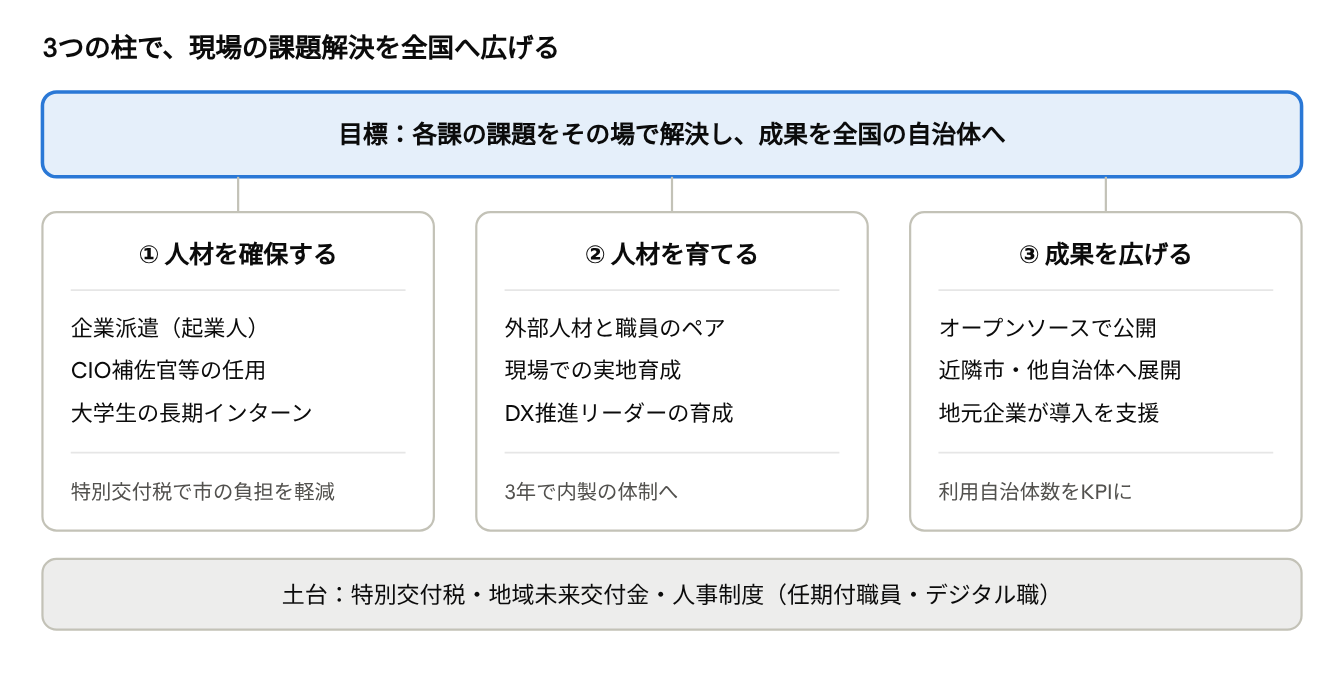
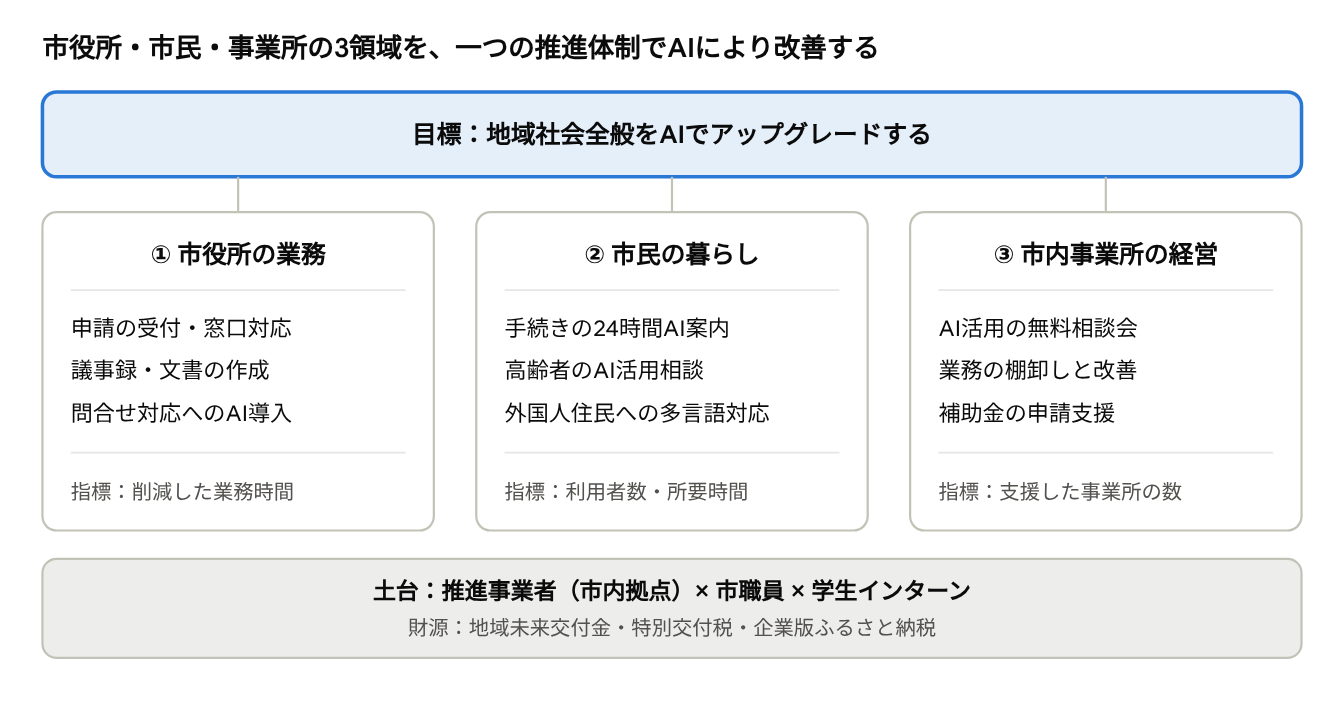
企画案を地域AX推進事業に改訂: 対象を市民・市内事業所へ拡大、推進事業者への委託スキームと財源構成を反映し図を更新
Claude-Session: https://claude.ai/code/session_01LNbA5S8t3PmUSsm3fXshu9

diff --git a/fde-kikaku/README.md b/fde-kikaku/README.md
@@ -1,196 +1,239 @@
-# 市役所FDE（フォワード・デプロイド・エンジニア）推進体制 企画案
+# 地域AX推進事業（仮称）企画案
 
-2026年11月14日時点 · 庁内協議用たたき台
-
-> 編集・コメントはオンライン版（Claude Docs）でも可能です。本ファイルはその書き出し版です。
+2026年11月19日時点 · 庁内協議用たたき台
 
 ## 1. 企画の概要
 
-令和9年度に、DX推進課内へ「FDE班」を設置する。外部の専門人材・市職員・大学生インターンがチームを組み、各課の現場で業務課題をその場で解決する。作ったシステムはオープンソースとして公開し、他自治体にも広げる。人件費は国の特別交付税措置を最大限活用し、市の実質負担を抑える。
+市が事業主体となり、公募で選んだ「地域AX推進事業者」が市役所内または市内に拠点を置く。事業者は市職員と一緒に、市役所の業務、市民の暮らし、市内事業所の経営をAIで改善する。財源は地域未来交付金を中心に、特別交付税と企業版ふるさと納税を組み合わせる。作った仕組みはオープンソースで公開し、他の地域にも広げる。
 
-**FDE（フォワード・デプロイド・エンジニア）とは**：各課の現場に入り込み、業務課題をデータ・AI・ノーコード・システム改修で解決し、定着するまで伴走する技術職。外部ベンダーへの発注ではなく、職員と一緒に「その場で作って直す」ことが特徴。
+![企画の全体像 · 3つの対象領域と土台](images/01-zentaizou.png)
+
+市役所で確かめた仕組みを市民と事業所に広げる。3つの領域を同じ推進体制と財源が支える。
+
+**AX（AIトランスフォーメーション）とは**：AIを使って、仕事や暮らしのやり方そのものを変えること。現場に入ってその場で仕組みを作る技術者を、本企画ではFDE（フォワード・デプロイド・エンジニア）と呼ぶ。
+
+**前案からの変更点**
+
+| 項目 | 前案 | 本案 |
+| --- | --- | --- |
+| 対象 | 市役所の中の業務 | 地域社会全般（市役所・市民生活・市内事業所） |
+| 実施体制 | 市役所内のFDE班 | 公募で選んだ地域AX推進事業者が市内に拠点を置き、市職員と協働 |
+| 学生 | 市が会計年度任用職員として雇用 | 事業者が雇用または籍を置き、市の事業に参加 |
+| 主な財源 | 特別交付税（人件費） | 地域未来交付金（委託費）＋特別交付税（市側の人材）＋企業版ふるさと納税 |
+| 成果指標 | 業務時間の削減など | 上記に加え、支援した事業所の数、市民サービスの利用者数、市内での雇用・定着 |
 
 **背景**
 
-- 人口5万人以下の小規模団体のうち211団体が、DX担当1人以下の「1人情シス」状態にある（総務省）。外部委託だけでは現場の細かな課題に手が回らない。
-- 国は外部デジタル人材の任用、企業人材の派遣、職員育成に特別交付税措置を講じており、人材確保の財源を組みやすい。
-- デジタル庁は2026年4月に職員向け生成AI環境「源内」の一部をオープンソースで公開した。自治体による重複開発の抑制は国の方向性と一致する。
+- 市役所だけでなく、市内の中小事業所も人手とデジタル人材が不足している。市と事業所が別々に外部人材を探すより、地域で共同して抱える方が効率がよい。
+- 地域未来交付金は地域の課題解決と地域経済への効果を重視する。対象を市民と事業所まで広げることで、交付金の趣旨に合う事業になる。
+- 総務省は地域の課題整理やAI導入計画の策定を伴走支援する「地域AX」の取組を進めている。デジタル庁は職員向け生成AI環境「源内」の一部をオープンソースで公開しており（2026年4月）、国の方向性と一致する。
 
-**3つの柱**：①人材を確保する（企業派遣・外部人材・学生）、②人材を育てる（ペアでの実地育成）、③成果を広げる（オープンソース公開と横展開）。
+## 2. 事業スキーム
 
-![企画の全体像 · 3つの柱と土台](images/01-zentaizou.png)
+市が地域再生計画をつくって国の交付金を受け、公募型プロポーザルで選んだ推進事業者に委託する。市が特定の事業者に直接お金を出す形にはしない。
 
-3つの柱は国の財源と人事制度を土台にし、「確保した人材を育て、その成果を外へ広げる」順につながる。
+![事業スキーム図 · 国・市・推進事業者・3領域](images/02-scheme.png)
 
-## 2. 組織体制
+お金は国から市、市から委託で推進事業者へ流れる。推進事業者と市職員が一緒に3つの領域の現場に入り、協議会が支援先の推薦と成果の評価を担う。
 
-FDE班は「小さな中核チーム＋各課の兼務リーダー」で構成し、外部人材と市職員をペアにして各課へ派遣する。初年度は専任5〜6名、学生2〜4名を想定する。
+| 主体 | 役割 |
+| --- | --- |
+| 国（内閣府・総務省） | 地域未来交付金の交付、特別交付税措置、地域AXの伴走支援 |
+| 市 | 事業主体。地域再生計画とKPIの策定、推進事業者の公募・選定、市役所側の推進担当（DX推進課と各課のリーダー） |
+| 地域AX推進事業者 | 市の委託を受け、市内に拠点を置いてFDE人材と学生インターンを雇用。市職員と一緒に3つの領域を支援 |
+| 地域AX推進協議会 | 市、推進事業者、商工会議所・商工会、地域金融機関、大学で構成。支援先の推薦、成果の評価 |
+| 大学・高専 | 学生の送り出し、共同研究・課題解決型の授業 |
+| 協力企業 | 企業版ふるさと納税（人材派遣型）や地域活性化起業人で専門人材を派遣 |
 
-![組織体制図 · FDE班、各課、支援層](images/02-soshiki.png)
+**推進事業者の選び方**
 
-FDE班が各課に入り、各課のDX推進リーダーが課題を持ち込む。双方向のやりとりを支援層が外から支える。（図中の課名は例）
+- 公募型プロポーザルで選ぶ。最初から特定の事業者を決めてしまうと、交付金の審査や議会で理由を問われる。
+- 評価基準に、市内に拠点を置くこと、学生を雇用・育成すること、成果をオープンソースで公開すること、交付金期間後に自走する計画があることを入れる。
+- 委託は単年度契約を基本とし、成果評価をもとに次年度も継続するかを判断する。
 
-| 層 | 構成（初年度の想定） | 役割 |
+## 3. 対象領域と支援メニュー
+
+市役所の業務で確かめた仕組みを、市民向けサービスと事業所支援に展開する。初年度は各領域で小さな先行案件を選び、3か月以内に効果を確かめる。
+
+| 領域 | 取組例 | 進め方 | 主な指標 |
+| --- | --- | --- | --- |
+| ① 市役所の業務 | 申請の受付業務、窓口の待ち時間対策、議事録・文書の作成、問合せ対応へのAI導入 | 各課のDX推進リーダーが課題を持ち込み、FDEと職員が一緒に作る | 削減した業務時間、解決した案件数 |
+| ② 市民の暮らし | 手続きの24時間AI案内、高齢者のスマートフォン・AI活用相談、子育て・介護の情報案内、外国人住民への多言語対応 | 市役所で使った仕組みを市民向けに公開。公民館などで学生が使い方を案内する | 利用者数、手続きの所要時間、利用者の満足度 |
+| ③ 市内事業所の経営 | AI活用の無料相談会、業務の棚卸しと改善提案、生成AIの社内導入（文書・見積もり・顧客対応）、国の補助金の申請支援 | 協議会を通じて公募で支援先を募り、共通メニューで伴走する | 支援した事業所の数、導入後の業務時間・売上の変化 |
+
+**事業所支援のルール**（特定の会社への利益にしないため）
+
+- 支援先は公募で募り、選定基準を公開する。
+- 無料は相談・業務診断・基本的な導入までとし、個別の開発は事業所の費用負担か国の補助金で行う。
+- 支援の成果事例と作った仕組みは公開し、他の事業所も使えるようにする。
+- 市役所の庁内データや個人情報は、事業所支援には使わない。
+
+## 4. 実施体制と人材
+
+推進事業者のFDE人材と市職員がペアで現場に入り、学生インターンは事業者に雇用されて実務を担う。初年度は事業者側に専任5〜6名と学生4〜6名、市側に推進担当2〜3名を想定する。
+
+| 所属 | 役割 | 人数（初年度の想定） |
 | --- | --- | --- |
-| FDE班（DX推進課内） | 外部専門人材2〜3名＋市職員（専任）2〜3名 | 案件の選定、各課への派遣、技術的な判断、育成の運営 |
-| FDE見習い | 大学生の長期インターン2〜4名 | データ整理、ノーコード開発、AIの試行 |
-| 各課 | DX推進リーダー（兼務、各課1名） | 課題を持ち込む、FDEと一緒に作る、完成後に運用する |
-| 支援層 | 県の人材プール、地域情報化アドバイザー、協定企業、連携大学 | 専門的な助言、高度な案件の補完 |
+| 推進事業者 | 統括マネージャー（市との窓口、案件の優先順位づけ） | 1名 |
+| 推進事業者 | FDE人材（現場での開発・導入。企業からの派遣者を含む） | 3〜4名 |
+| 推進事業者 | 事業所支援の担当（相談窓口、商工団体・金融機関との連携） | 1名 |
+| 推進事業者 | 学生インターン（データ整理、ノーコード開発、市民向けの使い方案内） | 4〜6名 |
+| 市 | DX推進課の担当（CIO補佐官等の外部人材1名を含む） | 2〜3名 |
+| 市 | 各課のDX推進リーダー（兼務） | 各課1名 |
 
-**運営のルール**
+**拠点の置き方**
 
-- 外部人材と市職員は必ずペアで動き、仕事をこなしながら技術を移す。
-- 案件は「3か月以内に効果が出るもの」から始める。例：申請の受付業務、窓口の待ち時間対策、議事録作成、問合せ対応へのAI導入。
-- 案件の受付基準を決め、何でも頼まれる「便利屋」にしない。基準例：削減できる時間、市民への影響、他課へ横展開できるか。
-- FDE班内にオープンソース公開の担当（OSPO、兼務1名）を置く。
+| 案 | 良い点 | 注意点 |
+| --- | --- | --- |
+| 市役所内に置く | 職員と日常的に一緒に動ける。市民にも分かりやすい | 行政財産の目的外使用許可（または貸付）が必要。事業者のネットワークを庁内ネットワークと分ける |
+| 市内の別の場所に置く（空き店舗・駅前など） | 事業所や学生が立ち寄りやすい。まちなかの賑わいにもつながる | 市役所との行き来が必要。賃料の負担を決める |
 
-## 3. 人材確保
+**学生インターンの位置づけ**
 
-人材は「企業から来た人が教える、学生が手を動かす、市職員が現場をつなぐ」の3系統で確保する。企業派遣は全国で実績があり、令和6年度は871人が439団体で活用されている。
+| 形 | 内容 | 評価 |
+| --- | --- | --- |
+| 事業者が雇用（推奨） | 有償の長期インターン・アルバイト。人件費は委託費に含められる | 最もシンプル。卒業後に事業者へそのまま就職もできる |
+| 大学との連携プロジェクト | 授業や研究として参加。特別交付税の対象になり得る | 「市の事業」が前提。事業者に籍を置く学生分に使えるかは総務省へ照会が必要 |
+| 卒業後の受け皿 | 地域おこし協力隊（市が団体に委託し、団体が雇用する「委託型」の運用例あり） | 推進事業者を委託先にできるか要確認 |
 
-![人材パイプライン · 高校から市のFDEまで](images/03-jinzai-pipeline.png)
+学生には必ず指導役をつけ、個人情報に触れない業務から始める。案件は3か月程度で区切り、学期や就職活動で抜けても引き継げるようにする。
 
-学生は在学中に見習いとして実務を経験し、卒業後は3つの進路のいずれかで市に関わり続ける。奨学金の返還支援を組み合わせれば、地元に戻るきっかけになる。
+![人材パイプライン · 高校から地域のAX人材まで](images/03-jinzai-pipeline.png)
 
-| 役割 | 人材の出どころ | 使う制度 | 主な財源 |
+学生は在学中に推進事業者で実務を経験し、卒業後は推進事業者、市、地元事業所のいずれかで市内に残る。奨学金の返還支援を組み合わせれば、地元に戻るきっかけになる。
+
+## 5. 財源の組み合わせと費用試算
+
+推進事業者への委託費は地域未来交付金（地域未来推進型、補助率1/2）、市側の人材は特別交付税、企業からの派遣は企業版ふるさと納税でまかなう。同じ経費に2つの財源を重ねて使わない。
+
+| 財源 | 所管 | 内容（直近の公表値） | 本事業での用途 |
 | --- | --- | --- | --- |
-| 技術リーダー・指導役 | IT企業・SIer・地元企業からの派遣 | 地域活性化起業人（企業派遣型・副業型・シニア） | 特別交付税 |
-| 技術リーダー | 民間の専門人材 | CIO補佐官等として任用（任期付・非常勤） | 特別交付税 |
-| 各課と外部をつなぐPM | 民間の実務経験者 | 地域プロジェクトマネージャー | 特別交付税 |
-| 内部FDE | 市職員（専任） | DX推進リーダー育成 | 一般財源＋育成経費は特別交付税 |
-| FDE見習い | 大学生・高専生 | 有償の長期インターン（会計年度任用）、大学連携プロジェクト | 一般財源、大学連携の特別交付税 |
-| 将来の担い手 | 新卒・地域おこし協力隊・Uターン | デジタル職の採用区分、協力隊、奨学金返還支援 | 協力隊は特別交付税 |
+| [地域未来交付金（地域未来推進型）](https://www.chisou.go.jp/tiiki/kankyo/pdf/02_kouhukingaiyou26.pdf) | 内閣府 | ソフト事業、補助率1/2、原則3か年度以内（最長5か年度）。協議会の設立、計画立案、外部人材の招へい、委託事業が対象。委託費に含まれる人件費相当はそれだけでは対象外にならない | 推進事業者への委託費、協議会の運営 |
+| [地域未来交付金（デジタル実装型）](https://web.pref.hyogo.lg.jp/kk26/koufukin_digital.html) | 内閣府 | TYPE A 1/2、TYPE V 2/3、TYPE S 3/4 | 2年目以降、市民向けAIサービスの本格導入 |
+| [CIO補佐官等の外部人材任用](https://www.soumu.go.jp/main_content/001092501.pdf) | 総務省 | 特別交付税、措置率0.7（令和5〜7年度） | 市側の司令塔役 |
+| [企業版ふるさと納税（人材派遣型）](https://www.chisou.go.jp/tiiki/tiikisaisei/portal/pdf/jinzaihakengata.pdf) | 内閣府 | 企業が寄附と人材派遣をセットで行う。企業は寄附額の最大約9割の税が軽くなる。令和9年度まで延長 | 大企業からの専門人材の受入れ |
+| [地域活性化起業人](https://www.soumu.go.jp/main_content/001069411.pdf) | 総務省 | 特別交付税。受入れ経費の上限590万円/人（令和7年度拡充案） | 企業からの技術者派遣（受入れ要件は要照会） |
+| 事業所自身が使う国の補助金 | 経済産業省など | デジタル化・AI導入補助金など | 個別事業所のツール導入（推進事業者が申請を支援） |
+| [地域AXの伴走支援](https://www.soumu.go.jp/main_content/001092486.pdf) | 総務省 | 地域の課題整理やAI導入計画の策定を国が伴走支援（令和6〜9年度） | 構想づくりの段階 |
 
-**企業への訴求点**：社員が現場の課題を一から解決する経験を積める。自治体向け事業の知見が得られる。ESG・地域貢献の実績になる。シニア社員を活用できる。
+**費用の試算（初年度・年額・概算）**
 
-**学生受入れの条件**：指導役を必ずつける。個人情報に触れない業務から始める。有償とする。案件を3か月程度で区切り、引き継ぎ資料を残す。
-
-**人事制度で用意するもの**：特定任期付職員の採用枠、副業・兼業人材の受入れ規程、デジタル職の採用区分と専門職のキャリアパス。育てた職員が異動で抜けない仕組みが最重要。
-
-## 4. 財源
-
-人の費用は特別交付税措置、成果物の本格導入は地域未来交付金（デジタル実装型）と、財源を分けて組む。令和8年度の上限額・措置率は確定版を未確認のため、下表は直近の公表値である。
-
-| 制度 | 所管 | 内容（直近の公表値） | 本企画での用途 |
+| 項目 | 内訳 | 金額（万円） | 財源 |
 | --- | --- | --- | --- |
-| [CIO補佐官等の外部人材任用](https://www.soumu.go.jp/main_content/001092501.pdf) | 総務省 | 特別交付税。措置率0.7（令和5〜7年度）、1団体3名分まで | FDE班の技術リーダー |
-| [地域活性化起業人](https://www.soumu.go.jp/main_content/001069411.pdf) | 総務省 | 特別交付税。受入れ経費の上限590万円/人（令和7年度拡充案） | 企業からの技術者派遣 |
-| [地域プロジェクトマネージャー](https://www.soumu.go.jp/main_content/001092485.pdf) | 総務省 | 特別交付税。市町村2人、1人3年まで。上限は資料により650〜700万円/人 | 各課との調整役 |
-| [DX推進リーダー育成](https://www.soumu.go.jp/main_content/001097739.pdf) | 総務省 | 育成経費が特別交付税の対象（令和8年9月資料） | 内部職員の研修・資格取得 |
-| [大学と地域が連携した課題解決プロジェクト](https://www.soumu.go.jp/main_content/001053714.pdf) | 総務省 | 特別交付税（2024年度新設） | 大学・高専との共同プロジェクト |
-| [地域未来交付金（デジタル実装型）](https://web.pref.hyogo.lg.jp/kk26/koufukin_digital.html) | 内閣府 | 旧「新しい地方経済・生活環境創生交付金」。TYPE1・TYPE V・TYPE S | 成果物の本格導入（人件費は原則対象外） |
-| 地域情報化アドバイザー | 総務省 | 専門家の派遣 | 立ち上げ期の助言 |
+| 委託費：統括マネージャー | 1名×900 | 900 | 地域未来交付金 |
+| 委託費：FDE人材 | 3名×800 | 2,400 | 地域未来交付金 |
+| 委託費：事業所支援の担当 | 1名×600 | 600 | 地域未来交付金 |
+| 委託費：学生インターン | 5名×約86（時給1,200円×週16時間×45週） | 約430 | 地域未来交付金 |
+| 委託費：拠点運営・クラウド・AI利用料 | 一式 | 約600 | 地域未来交付金 |
+| 委託費：事業所向け相談会・成果公開 | 一式 | 約300 | 地域未来交付金 |
+| 市：CIO補佐官等 | 1名×700 | 700 | 特別交付税（措置率0.7） |
+| 企業からの派遣人材 | 1名 | 寄附でまかなう | 企業版ふるさと納税 |
 
-**費用の試算（人件費のみ・概算）**
+委託費の合計は約5,230万円。交付金（1/2）で約2,615万円、市が約2,615万円を負担する。CIO補佐官等の市の実質負担は約210万円。市の実質負担は合わせて約2,825万円となる。
 
-| 項目 | 人数 | 単価（万円/年） | 総額（万円） | 措置の見込み | 市の実質負担（万円） |
-| --- | --- | --- | --- | --- | --- |
-| 外部専門人材（CIO補佐官等） | 3 | 700 | 2,100 | 措置率0.7 | 約630 |
-| 学生インターン（時給1,200円×週16時間×45週） | 4 | 約86 | 約345 | なし（大学連携部分は要確認） | 約345 |
+単価と人数は仮置きである。交付上限（国費）は類型と団体区分で異なり、市区町村4,000万円とする資料もあるため、公募要領で確認する。市負担分（1/2）への地方財政措置は「検討中」と注記されており、県の担当課に確認する。
 
-上表の単価・時給は仮置きである。特別交付税は後から算定され、確約ではない。1人あたりの対象上限等もあるため、財政課と算定見込みを事前に調整する。
+## 6. オープンソース公開と横展開
 
-## 5. オープンソース公開と横展開
-
-FDE班が作ったシステムは、開発の最初から公開を前提に作り、オープンソース（MITまたはApache-2.0）として公開する。総務省は、自治体が開発したソフトウェアをオープンソース化して他自治体に使わせることに、地方自治法上の制約はないと整理している（[総務省資料](https://www.soumu.go.jp/main_content/001054971.pdf)）。
+委託で作った仕組みは、委託契約でオープンソース（MITまたはApache-2.0）での公開を義務づける。総務省は、自治体が開発したソフトウェアをオープンソース化して他の自治体に使わせることに、地方自治法上の制約はないと整理している（[総務省資料](https://www.soumu.go.jp/main_content/001054971.pdf)）。公開は、事業所支援が特定の会社への利益にならないことの担保にもなる。
 
 ![オープンソース公開の循環モデル · 6ステップ](images/04-oss-junkan.png)
 
-公開した成果が他自治体で使われると、その実績が次の人材確保と交付金申請の根拠になり、さらに多くの課題を解決できるようになる。
-
-**立場ごとの評価の見通し**
-
-| 立場 | 見通し | 理由 |
-| --- | --- | --- |
-| 国の政策 | 方向性が合う | デジタル庁がオープンソース化の検討会を設置（2025年11月）、「源内」を公開（2026年4月） |
-| 交付金・表彰の審査 | 加点が期待できる | 横展開の具体的な根拠になる（各年度の要綱で要確認） |
-| 他自治体 | 関心は高い | 「誰がサポートするのか」が導入の障害 |
-| エンジニア・学生 | 採用に大きく効く | 公開コードが求人票になり、学生にとっては実績になる |
-| 地元企業・ベンダー | 受け止めは分かれる | 既存業務が減る懸念と、他自治体への導入支援という商機の両面 |
-| 議会・住民 | 説明すれば理解を得やすい | 「税金で作ったものを全国の役に立てる」。保守費は問われる |
+公開した仕組みを他の地域や事業所へ導入する業務は、推進事業者の自走後の収入にもなる。
 
 **著作権の整理（公開の前提）**
 
 | 作った人 | 著作権の扱い | 必要な対応 |
 | --- | --- | --- |
-| 市職員（任期付・会計年度任用を含む） | 職務著作として原則市に帰属 | 内規で明確化 |
-| 企業からの派遣者 | 協定の内容による | 派遣協定に市への帰属と公開への同意を明記 |
-| 学生インターン | 雇用なら職務著作、PBLなら学生・大学に帰属しうる | 雇用契約または大学との協定で同意を得る |
-| 委託先ベンダー | 契約の内容による | 仕様書に公開と著作権の譲渡を明記 |
+| 市職員 | 職務著作として原則市に帰属 | 内規で明確化 |
+| 推進事業者（そこに雇用された学生を含む） | 委託契約の内容による | 仕様書に市への帰属またはオープンソース公開を明記。事業者は学生との雇用契約で権利を整理する |
+| 企業からの派遣者 | 派遣協定の内容による | 派遣協定に市への帰属と公開への同意を明記 |
+| 大学連携プロジェクトの学生 | 学生・大学に帰属しうる | 大学との協定で公開への同意を得る |
 
-**公開の運用ルール**：保守の方針を明示する。認証情報や庁内ネットワークの構成を含めない。公開前にシークレットのスキャンを行う。導入手順書とデモを用意する。導入・保守は民間企業に発注できると明示する。
+**公開の運用ルール**：保守の方針を明示する。認証情報、庁内ネットワークの構成、事業所の営業情報を含めない。公開前にシークレットのスキャンを行う。導入手順書とデモを用意する。他の地域での導入・保守は民間企業が受注できると明示し、推進事業者の自走後の収入源にもする。
 
-## 6. ロードマップとKPI
+## 7. ロードマップ・自走化とKPI
 
-令和8年度中に準備と令和9年度当初予算の要求を行い、令和11年度末までに外部への依存を減らした内製体制へ移行する。
+令和8年度中に計画と交付金申請を済ませ、令和9〜11年度の3年間を交付金で実施する。令和12年度からは交付金に頼らず、推進事業者が自走する。交付金の申請では、この自走化の計画を必ず問われる。
 
-![3か年ロードマップ · 4フェーズと3つの判断点](images/05-roadmap.png)
+![ロードマップ · 4フェーズと3つの判断点](images/05-roadmap.png)
 
-各フェーズの境目（◇）で成果を評価し、次の段階に進むかどうかを判断する。
+各フェーズの境目（◇）で成果を評価し、次の段階に進むかどうかを判断する。交付金の申請時期は公募要領で確認する。
+
+**自走後の収入源**
+
+| 収入源 | 内容 |
+| --- | --- |
+| 事業所からの支払い | 基本の相談は無料のまま、個別の開発・運用を有料化する |
+| 市からの業務委託 | 市役所の業務改善分を通常の委託として継続 |
+| 他の地域での導入支援 | 公開した仕組みを他の自治体・事業所に導入する業務を受注 |
+| 企業版ふるさと納税 | 市が寄附を受け、人材派遣と合わせて事業を続ける（制度の延長が前提） |
 
 **KPI（目標値は協議で設定）**
 
 | 分野 | 指標 |
 | --- | --- |
-| 業務改善 | 削減した業務時間（時間/年）、解決した案件数 |
-| 市民サービス | 手続き・窓口の所要時間の短縮 |
-| 人材 | 独り立ちした内部FDEの人数、インターン受入れ数、卒業後に市や地元に残った人数 |
-| 内製化 | 内部で開発した割合 |
-| 横展開 | 公開したリポジトリ数、利用自治体数、外部からの改善提案数 |
+| 市役所 | 削減した業務時間（時間/年）、解決した案件数 |
+| 市民 | AIサービスの利用者数、手続きの所要時間、相談会の参加者数 |
+| 事業所 | 支援した事業所の数、AIを導入した事業所の数、導入後の業務時間・売上の変化 |
+| 人材・雇用 | 事業者の市内雇用数、インターン受入れ数、卒業後に市内で就職した人数 |
+| 横展開・自走 | 公開した仕組みの数、利用した自治体数、事業者の自主収入の割合 |
 
-## 7. リスクと対策
+## 8. リスクと対策
 
-最大のリスクは「財源が確約されないこと」と「育てた人材や知識が異動・退任で失われること」である。
+最大のリスクは、交付金が終わった後に事業が止まることと、公費が特定の事業者・会社への利益と見られることである。
 
 | リスク | 対策 |
 | --- | --- |
-| 特別交付税は後から算定され、確約がない | 初年度は措置なしでも成り立つ規模で計画する。財政課と事前に算定見込みを調整する |
-| 制度の名称・上限が毎年変わる | 毎年の地方財政の通知を確認する担当を決める |
-| 外部人材が辞めると知識が残らない | 市職員とのペア制、作業記録の義務化、コードと手順の庁内保管 |
-| 育てた職員が異動で抜ける | デジタル職の採用区分と専門職のキャリアパスを人事課と設計する |
-| FDE班が何でも頼まれる「便利屋」になる | 案件の受付基準を定め、優先順位を公開する |
-| 派遣元企業との調達上の利益相反 | 派遣者を派遣元が関わる調達に関与させないと協定に明記 |
-| 情報セキュリティ・個人情報 | ネットワーク分離の方式の見直し、生成AI利用ガイドライン、学生は個人情報を扱わない業務から |
-| 公開しただけで保守されないと批判される | 保守方針の明示、近隣市との共同開発・共同保守 |
-| 既存ベンダーからの反発 | 導入・保守は民間に発注できると明示し、地元企業を導入パートナーにする |
+| 交付金の期間（原則3年）後に事業が止まる | 1年目から有料メニューを設計し、自主収入の割合をKPIにする |
+| 推進事業者の選定が不公平と見られる | 公募型プロポーザルで選び、評価基準と結果を公開する |
+| 事業所支援が特定の会社への利益になる | 支援先の公募、共通メニュー、無料範囲の限定、成果の公開 |
+| 寄附した企業と委託先の関係が問題になる | 企業版ふるさと納税は寄附企業への経済的な見返りを禁止している。寄附企業（関連会社を含む）を同じ事業の委託先にしない。判断に迷う場合は内閣府に照会 |
+| 同じ経費に財源を重ねて使う | 財源ごとに対象経費を分けて管理する |
+| 市負担分（1/2）の財源が確保できない | 財政課・県と地方財政措置の見込みを事前に確認し、初年度の規模を調整する |
+| 庁内の情報や個人情報の漏えい | 事業者のネットワークを庁内と分ける。守秘義務、生成AI利用ガイドライン、学生は個人情報を扱わない業務から |
+| 市の中にノウハウが残らない | 市職員とのペア制、作業記録とコードの公開、CIO補佐官等を市側に置く |
+| 既存ベンダーや地元IT企業からの反発 | 地元企業を協議会や導入パートナーに迎え、個別開発の受注機会を残す |
+| 制度の名称・要件が毎年変わる | 毎年の公募要領・地方財政の通知を確認する担当を決める |
 
-## 8. 庁内協議で決めたい論点と次のアクション
+## 9. 庁内協議で決めたい論点と次のアクション
 
-令和9年度当初予算に間に合わせるには、下の論点を早期に決める必要がある。
+令和9年度の交付金と当初予算に間に合わせるには、事業の対象範囲、推進事業者の選び方、市負担の規模を早期に決める必要がある。
 
 **論点**
 
-1. FDE班の置き場所：DX推進課内の班か、市長直轄のチームか
-2. 初年度の規模：外部人材・市職員・学生それぞれ何名か
-3. 外部人材の入れ方：企業派遣（起業人）、CIO補佐官等としての任用、副業人材のどれを軸にするか
-4. 人事制度：特定任期付の採用、デジタル職の採用区分、副業受入れ規程をどこまで整えるか
-5. 先行案件：最初に取り組む課の案件を5〜10件選ぶ
-6. オープンソース公開の方針：公開を原則とするか、案件ごとに判断するか
-7. 広域連携：近隣市との共同任用・共同開発を初年度から打診するか
+1. 対象の範囲：初年度から3領域すべてを対象にするか、市役所と事業所から始めるか
+2. 拠点：市役所内に置くか、市内の別の場所に置くか
+3. 推進事業者の選び方：公募型プロポーザルの評価基準と委託期間
+4. 市負担の規模：初年度の委託費をどの程度にするか（試算は約5,230万円、市の実質負担は約2,825万円）
+5. 協議会の構成：商工団体、地域金融機関、大学に声をかけるか
+6. 企業版ふるさと納税：人材派遣型で協力企業を募るか
+7. オープンソース公開：委託仕様書で公開を義務づけるか
 
 **次のアクション**
 
-- [ ] 地域活性化起業人（企業派遣型）の受入れ要件を照会する。岐阜県は制度上「名古屋圏（三大都市圏）」に含まれるため、市内の過疎地域等の有無で可否が変わりうる（総務省または県へ）
-- [ ] 財政課と特別交付税の対象経費と算定見込みを調整する
-- [ ] 人事課と任期付職員・会計年度任用職員の枠を調整する
-- [ ] 近隣の大学・高専（情報系・データサイエンス系）にインターンと連携を打診する
-- [ ] 派遣を依頼する候補企業をリストアップする
-- [ ] 各課から先行案件の候補を募る
-- [ ] 令和9年度当初予算の要求資料を作成する
+- [ ] 内閣府・県に、地域未来交付金の類型・交付上限・申請時期と、委託スキームが対象になるかを確認する
+- [ ] 財政課と市負担分の財源と地方財政措置の見込みを調整する
+- [ ] 庁舎の使用許可（市役所内に拠点を置く場合）を管財担当と確認する
+- [ ] 地域活性化起業人の受入れ要件を照会する。岐阜県は制度上「名古屋圏」に含まれるため、市内の過疎地域等の有無で可否が変わりうる
+- [ ] 商工会議所・商工会、地域金融機関、近隣の大学・高専に協議会への参加を打診する
+- [ ] 推進事業者の公募仕様書（市内拠点、学生雇用、オープンソース公開、自走計画）のたたき台を作る
+- [ ] 総務省の地域AX伴走支援の活用を検討する
+- [ ] 地域再生計画・実施計画と令和9年度当初予算の要求資料を作成する
 
 ## 出典
 
-- [総務省 AX/DX推進体制の充実・強化とデジタル人材の確保・育成（令和8年9月）](https://www.soumu.go.jp/main_content/001097739.pdf)
-- [総務省 外部人材任用・特別交付税措置](https://www.soumu.go.jp/main_content/001092501.pdf)
-- [総務省 地域活性化起業人 実績（令和6年度）](https://www.soumu.go.jp/main_content/001070541.pdf)
-- [総務省 地域活性化起業人 制度資料](https://www.soumu.go.jp/main_content/001069411.pdf)
-- [国交省 資料（起業人上限の拡充）](https://www.mlit.go.jp/2chiiki_pf/files/250115_document04.pdf)
-- [総務省 地域プロジェクトマネージャー](https://www.soumu.go.jp/main_content/001092485.pdf)
-- [総務省 大学連携・地域外人材関連資料](https://www.soumu.go.jp/main_content/001053714.pdf)
+- [内閣府 地域未来交付金について（令和8年10月）](https://www.chisou.go.jp/sousei/about/chiikimiraikoufukin/pdf/chiikimiraikoufukin_gaiyou.pdf)
+- [内閣府 地域未来交付金について（令和8年7月 説明会資料）](https://www.chisou.go.jp/sousei/meeting/tihousousei_setumeikai/pdf/r08-07-22-shiryou4.pdf)
+- [内閣府 地域未来交付金（地域未来推進型）の制度概要](https://www.chisou.go.jp/tiiki/kankyo/pdf/02_kouhukingaiyou26.pdf)
 - [兵庫県 地方未来交付金（デジタル実装型）](https://web.pref.hyogo.lg.jp/kk26/koufukin_digital.html)
-- [福島県 地域未来交付金](https://www.pref.fukushima.lg.jp/sec/11045a/chiikimirai.html)
+- [内閣府 企業版ふるさと納税（人材派遣型）](https://www.chisou.go.jp/tiiki/tiikisaisei/portal/pdf/jinzaihakengata.pdf)
+- [京都府 企業版ふるさと納税（適用期限の延長）](https://www.pref.kyoto.jp/chiikisousei/kigyouban.html)
+- [総務省 外部人材任用・特別交付税措置](https://www.soumu.go.jp/main_content/001092501.pdf)
+- [総務省 地域活性化起業人 制度資料](https://www.soumu.go.jp/main_content/001069411.pdf)
+- [総務省 地域AX伴走支援関連資料](https://www.soumu.go.jp/main_content/001092486.pdf)
 - [総務省 自治体ソフトウェアのオープンソース化に関する整理](https://www.soumu.go.jp/main_content/001054971.pdf)
-- [IPA 行政機関のOSS活用 調査報告 2025](https://www.ipa.go.jp/digital/kaihatsu/oss/report/govoss_report_2025/index.html)
+- [静岡市 中小企業DX伴走支援事業](https://www.city.shizuoka.lg.jp/s2746/s013170.html)
 - [デジタル庁 「源内」公開](https://www.digital.go.jp/news/907c8e5d-2f4f-4bd7-9400-37c9f4221d7d)
 
-本書の制度情報はWeb検索で確認した直近の公表値である。令和8、9年度の確定値は総務省・内閣府の最新通知で確認すること。
+本書の制度情報はWeb検索で確認した直近の公表値である。申請前に公募要領・交付要綱の原文で確認すること。
